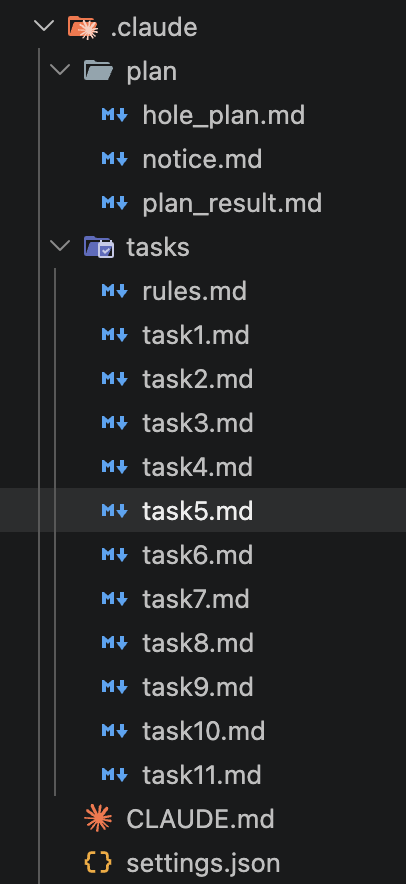
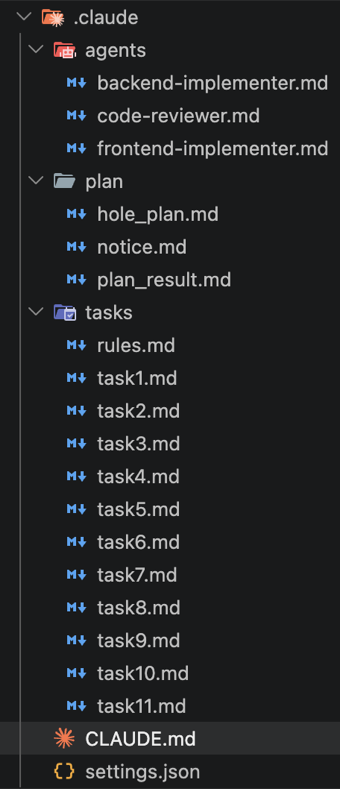
[FEAT] AI 활용 카드에 멀티 에이전트 구성 실물 반영 — .claude/agents 정의·검증 스토리
- roles.md: 내장 서브 에이전트 정의 방식(.claude/agents 트리·도구 권한 표·
  거버넌스 deny), code-reviewer 실제 frontmatter, 구성 자체를 검증한
  스토리(인식·리뷰어 실호출·무수정 증명·자기 수정 차단) 추가
- experiences.ts: 탭 제목 뒤에 .claude/agents 명시, 파일 기반 정의·검증 항목 추가
- plan.md: 작업 공간 트리 캡처를 agents 3종 포함 갱신판으로 교체(340px 리사이즈)

Changed region(s): [[0.0588, 0.0, 0.9706, 1.0]]

diff --git a/app/data/experiences.ts b/app/data/experiences.ts
@@ -2040,28 +2040,30 @@ const experiences: Record<Locale, Experience[]> = {
         },
         {
           id: "agent-roles",
-          title: "역할을 나눠 개발하기 — 멀티 에이전트 구성 · 구현과 검증 분리",
+          title: "역할을 나눠 개발하기 — 멀티 에이전트 구성 · 구현과 검증 분리 · .claude/agents",
           // 사진 자리(media): 서브 에이전트 여러 개가 병렬로 실행 중인 세션 캡처 — 프론트/백 작업이 동시에 도는 화면
           sections: [
             {
-              title: "Main Agent · Frontend / Backend · Researcher · Planner · Reviewer",
+              title: "Main이 조율하고, 독립 작업은 병렬로, Reviewer는 읽기 전용으로",
               items: [
-                "메인 에이전트는 전체 계획 관리와 프론트·백 결과 연결, 통합 테스트를 맡고, 경계가 분명한 구현은 프론트엔드·백엔드 서브 에이전트에 나눠 병렬로 진행합니다.",
-                "리서처는 기존 구조 조사, 플래너는 영향 범위와 작업 계획, 리뷰어는 구현 결과 검토를 맡습니다. 리뷰어가 직접 코드를 고치면 또 하나의 구현자가 되어 검증자가 사라지므로, 구현과 검증 역할은 분리합니다.",
-                "나누기 전에 공통 타입·API 계약·완료 조건부터 정합니다. 작업은 분산하지만 전체 방향과 통합 판단은 한곳에서 관리합니다.",
+                "끼니톡에서는 같은 Task와 API 계약을 기준으로 백엔드와 앱 작업을 별도 서브 에이전트에 맡겨 동시에 진행했습니다. 각 에이전트는 지정된 저장소만 수정하고, 결과 연결과 통합 테스트는 Main Agent가 담당했습니다.",
+                "기존 구조 조사와 계획 수립은 필요할 때 Explore·Plan 에이전트에 분리합니다. 모든 작업에 고정된 역할을 붙이기보다, 서로 독립적으로 진행할 수 있는 일만 나눕니다.",
+                "구현 후에는 파일 수정 도구가 없는 Reviewer Agent가 하위호환성·테스트 누락·운영 위험만 보고합니다. Reviewer의 지적을 반영할지는 Main Agent와 제가 판단해 구현과 검증의 책임을 분리합니다.",
+                "이 역할들은 프롬프트가 아니라 저장소의 .claude/agents/*.md 파일과 권한 설정으로 고정했고, 리뷰어 실호출과 전후 git diff 비교로 '읽기 전용'이 실제로 지켜지는 것까지 확인했습니다.",
               ],
               highlights: [
-                "전체 계획 관리와 프론트·백 결과 연결, 통합 테스트",
-                "서브 에이전트에 나눠 병렬로",
-                "또 하나의 구현자가 되어 검증자가 사라지므로",
-                "구현과 검증 역할은 분리",
-                "공통 타입·API 계약·완료 조건",
-                "전체 방향과 통합 판단은 한곳에서",
+                "백엔드와 앱 작업을 별도 서브 에이전트에 맡겨 동시에 진행",
+                "지정된 저장소만 수정",
+                "결과 연결과 통합 테스트는 Main Agent가 담당",
+                "서로 독립적으로 진행할 수 있는 일만",
+                "파일 수정 도구가 없는 Reviewer Agent",
+                "구현과 검증의 책임을 분리",
+                ".claude/agents/*.md 파일과 권한 설정으로 고정",
               ],
               docs: [
                 {
                   href: "/mds/ai-workflow/roles.md",
-                  label: "멀티 에이전트 분업 — 역할 경계와 한 작업이 흘러가는 사이클",
+                  label: "멀티 에이전트 분업 — 실제 BE·FE 병렬 작업과 읽기 전용 리뷰",
                 },
               ],
             },

diff --git a/public/mds/ai-workflow/roles.md b/public/mds/ai-workflow/roles.md
@@ -1,119 +1,200 @@
-# 역할을 나눠 개발하기 — 한 에이전트에게 계획·구현·검증을 모두 맡기지 않습니다
+# 역할을 나눠 개발하기 — 멀티 에이전트 구성 · 구현과 검증 분리 · .claude/agents
 
-> 한 에이전트에게 계획·구현·검증을 모두 맡기면, 자기가 만든 코드를 자기가 채점하게 됩니다
-
-<!-- 사진 자리: 서브 에이전트 여러 개가 병렬로 실행 중인 세션 캡처 — 프론트/백 작업이 동시에 진행되는 화면 -->
+> 독립적으로 진행할 수 있는 작업은 병렬로 나누고, 결과 연결과 최종 검증은 한곳에서 수행합니다
 
 ## 한눈에
 
 | | |
 |---|---|
-| **문제** | 한 에이전트가 다 하면 구현한 쪽이 검증까지 하게 됩니다 |
-| **방법** | 역할별 에이전트 분리, 통합 판단은 한곳 |
-| **구성** | Main · Frontend · Backend · Researcher · Planner · Reviewer |
-| **원칙** | 리뷰어는 코드를 직접 고치지 않습니다 |
+| **문제** | 한 에이전트가 계획·구현·검증을 모두 맡으면 자신의 판단을 스스로 확정하게 됩니다 |
+| **실제 구성** | Main Agent + Frontend / Backend Subagent |
+| **정의 방식** | Claude Code 내장 서브 에이전트 — 저장소의 `.claude/agents/*.md` 파일로 역할·도구 권한 고정 |
+| **보조 역할** | 필요할 때 Explore · Plan Agent 호출 |
+| **검증** | 파일 수정 권한이 없는 Reviewer Agent가 지적 사항만 반환 |
+| **최종 판단** | Main Agent가 결과를 연결하고, 제가 직접 확인한 뒤 결정 |
 
-## 역할 분담
+## 실제로 사용한 구조
 
-| 역할 | 맡는 일 | 하지 않는 일 |
-|---|---|---|
-| **Main Agent** | 전체 계획 관리 · 프론트/백 결과 연결 · 통합 테스트 | 경계가 분명한 세부 구현 |
-| **Frontend Agent** | 프론트 구현 | 백엔드 · 공통 계약 변경 |
-| **Backend Agent** | 백엔드 구현 | 프론트 · 공통 계약 변경 |
-| **Researcher** | 기존 구조 조사 | 코드 수정 |
-| **Planner** | 영향 범위 분석 · 작업 계획 | 코드 수정 |
-| **Reviewer** | 구현 결과 검토 | **코드 수정 — 고치는 순간 또 하나의 구현자가 되기 때문** |
+끼니톡은 앱과 백엔드가 별도 저장소로 나뉘어 있습니다. 두 영역의 계약을 먼저 고정한 뒤, 서로 독립적으로 진행할 수 있는 구현은 **Frontend Agent와 Backend Agent를 동시에 호출해 병렬로 진행**했습니다.
+
+항상 여러 에이전트를 띄우는 것은 아닙니다. 기존 구조를 넓게 조사해야 할 때는 Explore Agent, 영향 범위와 작업 순서를 먼저 정해야 할 때는 Plan Agent를 호출합니다. 구현 범위가 작거나 같은 파일을 함께 수정해야 한다면 Main Agent가 직접 처리합니다.
 
 ```mermaid
 flowchart TB
-    ME["나<br/>방향 결정 · 승인 · 최종 판단"] --> MAIN["Main Agent<br/>계획 관리 · 결과 연결 · 통합 테스트"]
-    MAIN --> RES["Researcher<br/>기존 구조 조사"]
-    MAIN --> PLN["Planner<br/>영향 범위 · 작업 계획"]
-    MAIN --> FE["Frontend Agent<br/>화면 구현"]
-    MAIN --> BE["Backend Agent<br/>API 구현"]
-    MAIN --> REV["Reviewer<br/>결과 검토 — 수정 금지"]
+    ME["나<br/>방향 결정 · 승인 · 최종 판단"] --> MAIN["Main Agent<br/>계획 관리 · 작업 분배"]
+    MAIN -.-> EXP["필요할 때<br/>Explore · Plan"]
+    MAIN --> CONTRACT["공통 Task<br/>API 계약 · 완료 조건"]
+    CONTRACT --> FE["Frontend Agent<br/>앱 저장소 구현"]
+    CONTRACT --> BE["Backend Agent<br/>서버 저장소 구현"]
+    FE --> JOIN["Main Agent<br/>결과 연결 · 통합 테스트"]
+    BE --> JOIN
+    JOIN --> REVIEW["Reviewer Agent<br/>읽기 전용 검토"]
+    REVIEW --> ME
 
     style ME fill:#FDEBE6,stroke:#EFB4A3,color:#2E251C
     style MAIN fill:#F7E4D5,stroke:#E4D8C6,color:#2E251C
-    style RES fill:#FDF0E2,stroke:#EFCB9E,color:#2E251C
-    style PLN fill:#FDF0E2,stroke:#EFCB9E,color:#2E251C
+    style EXP fill:#FDF0E2,stroke:#EFCB9E,color:#2E251C
+    style CONTRACT fill:#FDF0E2,stroke:#EFCB9E,color:#2E251C
     style FE fill:#EAF4EE,stroke:#BFDCCB,color:#2E251C
     style BE fill:#EAF4EE,stroke:#BFDCCB,color:#2E251C
-    style REV fill:#FDF0E2,stroke:#EFCB9E,color:#2E251C
+    style JOIN fill:#F7E4D5,stroke:#E4D8C6,color:#2E251C
+    style REVIEW fill:#FDF0E2,stroke:#EFCB9E,color:#2E251C
+```
+
+## 역할은 지시문이 아니라 파일로 고정합니다 — .claude/agents
+
+역할 분리를 매번 프롬프트로 설명하지 않습니다. Claude Code에 내장된 서브 에이전트 기능으로, 각 역할을 저장소 안의 `.claude/agents/*.md` 파일 하나로 정의합니다. 별도 확장이나 외부 도구가 아니라 **프로젝트 설정**이라서, 에이전트 구성도 코드처럼 저장소에서 함께 버전 관리됩니다. 아래는 끼니톡 백엔드 저장소의 실제 구조입니다.
+
+```text
+kkini-talk-be/
+├── CLAUDE.md                        # 에이전트 호출 규칙 — 어떤 작업에서 누구를 부르는지
+└── .claude/
+    ├── settings.json                # 도구 권한 allow/deny · 앱 저장소 접근 범위
+    └── agents/
+        ├── backend-implementer.md   # 구현 — 서버 저장소만 수정
+        ├── frontend-implementer.md  # 구현 — 앱 저장소만 수정
+        └── code-reviewer.md         # 검증 — 읽기 전용, 지적만 반환
+```
+
+각 파일 상단의 frontmatter가 그 역할이 쓸 수 있는 도구를 못 박습니다. 구현 에이전트에는 수정 도구를 주고, Reviewer에는 읽기 도구만 남깁니다.
+
+| 에이전트 | tools | permissionMode |
+|---|---|---|
+| backend / frontend-implementer | Read, Grep, Glob, **Edit, Write, Bash** | acceptEdits |
+| code-reviewer | Read, Grep, Glob | plan — 읽기 전용 |
+
+`settings.json`에는 백엔드 저장소 세션에서 앱 저장소까지 다룰 수 있도록 `additionalDirectories`를 열고, 반대로 **에이전트가 자신의 규약과 권한 설정을 고치는 길은 deny로 막았습니다.** 역할 정의를 바꾸는 것은 사람의 몫으로 남깁니다.
+
+```json
+"deny": [
+  "Edit(AGENTS.md)",
+  "Edit(.claude/agents/**)",
+  "Edit(.claude/settings.json)",
+  "Edit(.claude/CLAUDE.md)"
+]
+```
+
+## 끼니톡에서 실제로 나눈 작업
+
+다미케어 체크인과 영양 피드백을 연결하는 작업에서는 하나의 Task를 다음처럼 분리했습니다.
+
+| 역할 | 담당 범위 | 작업 경계 |
+|---|---|---|
+| **Backend Agent** | 체크인 API · 벤더 연동 · 저장 · 서버 테스트 | `kkini-talk-be`만 수정 |
+| **Frontend Agent** | 체크인 화면 · 동의 후 복귀 흐름 · 홈 상태 연결 | `kkini-talk-app`만 수정 |
+| **Main Agent** | 공통 계약 확정 · 결과 연결 · 전체 테스트 · 커밋 | 두 결과를 직접 재검증 |
+
+두 에이전트는 같은 Task 문서와 API 계약을 읽지만, 서로의 저장소는 수정하지 않습니다. API가 아직 완성되지 않았더라도 Frontend Agent는 계약 기준 mock으로 연결부까지 구현하고, 실제 연결 전환은 Main Agent의 통합 검증 단계에서 진행합니다.
+
+## 병렬 작업 전에 경계부터 고정합니다
+
+에이전트 수를 늘리는 것보다 중요한 것은 **서로 같은 계약을 보고, 같은 파일을 건드리지 않게 만드는 것**입니다.
+
+| 먼저 정하는 것 | 정하는 이유 |
+|---|---|
+| **담당 Task 범위** | 다른 에이전트의 작업을 선점하지 않도록 |
+| **소유 저장소·디렉터리** | 같은 파일을 동시에 수정해 충돌하지 않도록 |
+| **공통 타입·API 계약** | 프론트와 백엔드가 요청·응답을 다르게 해석하지 않도록 |
+| **완료 조건** | 테스트 범위와 완료 기준을 각자 추정하지 않도록 |
+| **금지 사항** | 커밋·마이그레이션·환경 변경을 Main의 검증 전에 실행하지 않도록 |
+
+실제 프로젝트 규칙에는 두 에이전트를 동시에 호출하는 방법과 작업 권한을 다음처럼 명시했습니다.
+
+```markdown
+- 두 에이전트는 한 메시지에서 동시에 호출한다.
+- 위임 프롬프트에 담당 task 번호와 소유 디렉터리를 명시한다.
+- API 명세와 공유 타입을 단일 진실로 사용한다.
+- 서브 에이전트는 commit·push·migration·dev server 실행을 하지 않는다.
+- 완료 시 변경 파일·검증 결과·미완 항목·스펙 변경 제안을 보고한다.
+- Main Agent가 통합 검증을 마친 뒤 체크리스트 갱신과 커밋을 진행한다.
 ```
 
 ## 한 작업이 흘러가는 순서
-
-조사와 계획이 먼저, 승인 뒤에 병렬 구현, 통합과 리뷰를 거쳐 마지막은 직접 확인으로 끝납니다.
 
 ```mermaid
 sequenceDiagram
     participant Me as 나
     participant M as Main
-    participant F as Frontend
-    participant B as Backend
-    participant V as Reviewer
-    Me->>M: 작업 전달
-    M->>Me: 조사·계획·리스크 보고 (Researcher · Planner)
-    Me->>M: 검토 후 승인
-    par 병렬 구현
-        M->>F: 화면 구현
-        F->>M: 결과
+    participant F as Frontend Agent
+    participant B as Backend Agent
+    participant R as Reviewer Agent
+
+    Me->>M: 요구사항 전달
+    M->>Me: 조사 · 계획 · 위험 보고
+    Me->>M: 계획 승인
+    par 독립 영역 병렬 구현
+        M->>F: 앱 범위와 공통 계약 전달
+        F->>M: 변경 파일 · 테스트 · 블로커 보고
     and
-        M->>B: API 구현
-        B->>M: 결과
+        M->>B: 서버 범위와 공통 계약 전달
+        B->>M: 변경 파일 · 테스트 · 블로커 보고
     end
-    M->>M: 결과 연결 + 통합 테스트
-    M->>V: 리뷰 요청
-    V->>M: 지적 사항만 회신 — 직접 수정하지 않음
-    M->>Me: 통합 결과 보고
-    Me->>Me: 직접 실행해서 최종 확인
+    M->>M: 결과 연결 · 전체 테스트
+    M->>R: 통합 결과 읽기 전용 검토 요청
+    R->>M: 심각도별 지적 사항만 반환
+    M->>Me: 검증 결과와 수정 여부 보고
+    Me->>Me: 직접 실행해 최종 확인
 ```
 
-## 실제 프로젝트 규약으로 강제합니다
+## Main은 서브 에이전트의 보고를 그대로 믿지 않습니다
 
-이 분업은 말로 하는 약속이 아니라 프로젝트 CLAUDE.md에 규칙으로 적혀 있습니다. 아래는 끼니톡 백엔드 CLAUDE.md의 실제 발췌입니다.
+병렬 작업에서는 속도만큼 **결과를 다시 확인하는 주체**가 중요했습니다. 실제 작업에서도 에이전트가 문제를 찾아낸 경우와 잘못 판단한 경우가 모두 있었습니다.
 
-```markdown
-- task에 적힌 내용은 순차적이나, 백엔드와 앱 코드를 모두 개발해야 하므로
-  멀티 서브 에이전트를 2개 호출하여 각각 프론트와 백엔드 업무를 위임하고,
-  동일한 task 파일을 보고 서로 작업 영역이 겹치지 않고 독립적이도록
-  하여 작업을 요청할 것.
-- 테스트, 연결 검증 시에는 메인 에이전트가 진행.
+| 실제 사례 | Main에서 한 일 |
+|---|---|
+| BE Agent가 Prisma 오류의 `meta`에 인덱스 이름이 없다는 것을 세 제약 조건으로 실측 | 계약의 오류 처리 기준을 컬럼 집합 기반으로 수정 |
+| FE Agent가 하나의 `204` 응답이 서로 다른 두 상태를 표현한다는 문제 발견 | 조회 API를 분리해 화면이 상태를 구분하도록 수정 |
+| 서브 에이전트가 202초 걸리던 e2e의 열린 소켓 원인 발견 | 전체 테스트로 수정 전후 시간을 재검증 |
+| 서브 에이전트가 “AI 서버에 해당 엔드포인트가 없다”고 잘못 보고 | Main이 실제 AI 서버 코드를 다시 확인해 계약을 바로잡음 |
+
+작업을 나누더라도 사실 확인과 통합 판단까지 분산하지 않습니다. **Main Agent는 보고를 출발점으로 사용하고, 테스트와 실제 코드로 다시 검증합니다.**
+
+## Reviewer는 코드를 수정할 수 없습니다
+
+구현한 에이전트가 자신의 결과까지 확정하면 놓친 가정을 다시 발견하기 어렵습니다. 그래서 통합이 끝난 뒤에는 별도의 Reviewer Agent가 하위호환성·테스트 누락·보안·운영 위험을 검토합니다.
+
+Reviewer에는 `Read`, `Grep`, `Glob`처럼 읽기에 필요한 도구만 허용합니다. `Write`, `Edit`, `Bash`를 제공하지 않기 때문에 코드와 실행 환경을 바꿀 수 없습니다. 아래는 `.claude/agents/code-reviewer.md`의 실제 frontmatter입니다.
+
+```yaml
+---
+name: code-reviewer
+description: 구현이 끝난 변경을 읽기 전용으로 검토한다.
+  하위호환성·계약·테스트·보안·운영 위험을 찾을 때 사용한다.
+tools: Read, Grep, Glob
+model: sonnet
+permissionMode: plan
+---
 ```
 
-같은 Task 파일을 보되 영역이 겹치지 않게 나누고, 합치는 검증은 메인 한곳이 맡는다 — 이 문서에서 설명한 구조가 규약 두 줄로 압축되어 있습니다.
-
-## 리뷰어가 코드를 고치지 않는 이유
-
-리뷰어에게 수정 권한을 주면 편합니다. 지적하고 바로 고치면 되니까요. 하지만 고치는 순간 리뷰어는 **또 하나의 구현자**가 되고, 그 수정을 검증할 사람이 사라집니다.
-
-그래서 리뷰어의 출력은 지적 사항까지입니다. 고칠지 말지, 어떻게 고칠지는 구현 쪽과 제가 판단합니다. 구현과 검증이 분리되어 있어야 검증이 검증으로 남습니다.
-
-리뷰어를 부를 때의 지시도 그 경계가 드러나게 씁니다.
+호출할 때도 역할을 명확히 제한합니다.
 
 ```text
-나> 방금 구현된 "재방문 의사" 필드 변경을 리뷰해줘.
-    - 코드는 수정하지 말 것. 지적 사항만 심각도 순으로 목록화
-    - 확인할 것: 기존 API 응답 포맷 유지 여부, 마이그레이션이 additive인지,
-      테스트가 실패 케이스까지 덮는지
+이번 변경을 읽기 전용으로 검토해.
 
-리뷰어> [지적 2건]
-    1. (높음) 기록 폼이 비관적 업데이트라 저장 실패 시 입력값이 사라짐
-    2. (낮음) 신규 테스트가 null 저장 케이스를 안 덮음
-    — 수정은 하지 않았습니다. 판단 부탁드립니다.
+- 코드를 수정하지 말 것
+- 기존 API 계약과 하위호환성 확인
+- 파괴적인 DB 변경 여부 확인
+- 빠진 실패·경계 테스트 확인
+- 문제를 심각도 순으로 정리하고 근거 파일과 위치를 함께 보고
 ```
 
-받은 지적을 구현 에이전트에게 넘길지, 직접 고칠지, 무시할지는 제가 정합니다.
+Reviewer의 출력은 지적 사항까지입니다. 지적을 구현 에이전트에게 다시 맡길지, 직접 수정할지, 반영하지 않을지는 Main Agent와 제가 결정합니다. **리뷰어가 고치는 순간 다시 구현자가 되기 때문에 구현과 검증의 권한을 분리했습니다.**
 
-## 나누기 전에 경계부터 정합니다
+## 이 구성 자체도 문서로 두지 않고 실제로 검증했습니다
 
-역할을 나누는 것보다 중요한 것은 경계입니다. 프론트와 백이 같은 API를 서로 다르게 이해한 채 병렬로 달리면, 합칠 때 비용이 더 커집니다. 그래서 나누기 전에 셋을 먼저 고정합니다.
+에이전트 정의와 권한 설정을 만든 뒤, 실제 세션에서 의도대로 동작하는지 하나씩 확인했습니다.
 
-| 먼저 정하는 것 | 이유 |
-|---|---|
-| **공통 타입** | 양쪽이 같은 데이터 구조를 보고 일하도록 |
-| **API 계약** | 엔드포인트 · 요청/응답 형태를 서로 다르게 이해하지 않도록 |
-| **완료 조건** | 각자 무엇을 통과해야 끝나는지 명확하도록 |
+| 확인한 것 | 방법 | 결과 |
+|---|---|---|
+| 에이전트 인식 | 새 세션에서 호출 가능한 서브 에이전트 목록 확인 | 3종 모두 인식 |
+| Reviewer 실호출 | 이 권한 구성 변경 자체를 읽기 전용으로 검토시킴 | 심각도 순 지적 5건 반환 |
+| Reviewer 무수정 | 리뷰 전후 `git diff` 해시 비교 | 해시 동일 — 파일 수정 없음 |
+| 자기 규약 수정 차단 | 구현 에이전트에게 규약 파일 수정을 직접 지시 | 수정 거부 — 전후 파일 해시 동일 |
 
-작업은 분산하지만, **전체 방향과 통합 판단은 Main Agent와 저, 한곳에서 관리합니다.**
+Reviewer의 지적도 그대로 받아들이지 않았습니다. **권한 범위를 좁히라는 지적은 반영**해 위의 deny 규칙이 추가됐고, 커밋·마이그레이션까지 권한으로 막으라는 지적은 Main Agent의 전담 작업까지 막혀 부작용이 더 크다는 근거를 규약 문서에 남기고 **기각**했습니다. 반영을 마친 뒤 Reviewer를 다시 호출해 해소를 확인하는 것까지가 한 사이클입니다.
+
+## 작업은 분산하고, 판단은 한곳에 모읍니다
+
+멀티 에이전트의 목적은 많은 에이전트를 사용하는 것이 아니라, **경계가 명확한 작업을 동시에 진행하면서도 전체 품질의 책임 소재를 흐리지 않는 것**입니다.
+
+Frontend와 Backend Agent는 정해진 범위를 구현하고, Explore와 Plan Agent는 필요할 때 조사와 계획을 보조합니다. Reviewer는 수정 권한 없이 결과를 검토합니다. 최종적으로 결과를 연결하고 테스트하며 배포 여부를 판단하는 책임은 Main Agent와 저에게 남겨 둡니다.

diff --git a/public/mds/ai-workflow/plan.md b/public/mds/ai-workflow/plan.md
@@ -98,7 +98,7 @@ sequenceDiagram
 
 대화로만 계획하면 세션이 끝날 때 같이 사라집니다. 그래서 계획·작업·결과가 전부 레포 안의 파일로 존재합니다. 아래는 끼니톡 백엔드의 실제 `.claude/` 작업 공간입니다.
 
-![끼니톡 백엔드의 실제 .claude 작업 공간 — plan 3종과 task 11개](/assets/experiences/ai-agent/claude-workspace-tree.png#size=406x884&w=170&left)
+![끼니톡 백엔드의 실제 .claude 작업 공간 — agents 3종·plan 3종·task 11개](/assets/experiences/ai-agent/claude-workspace-tree.png#size=340x789&w=150&left)
 
 | 파일 | 역할 |
 |---|---|
